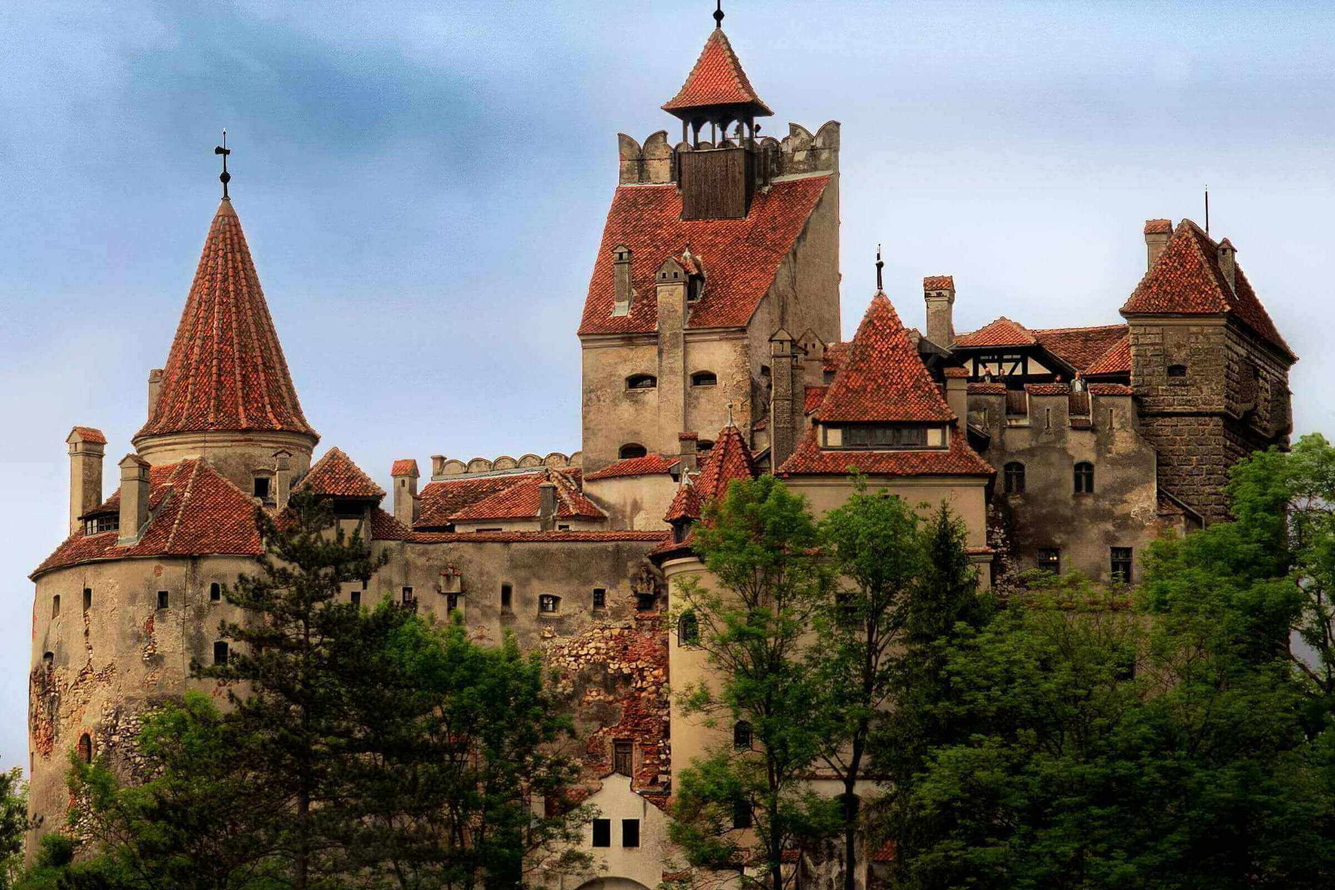
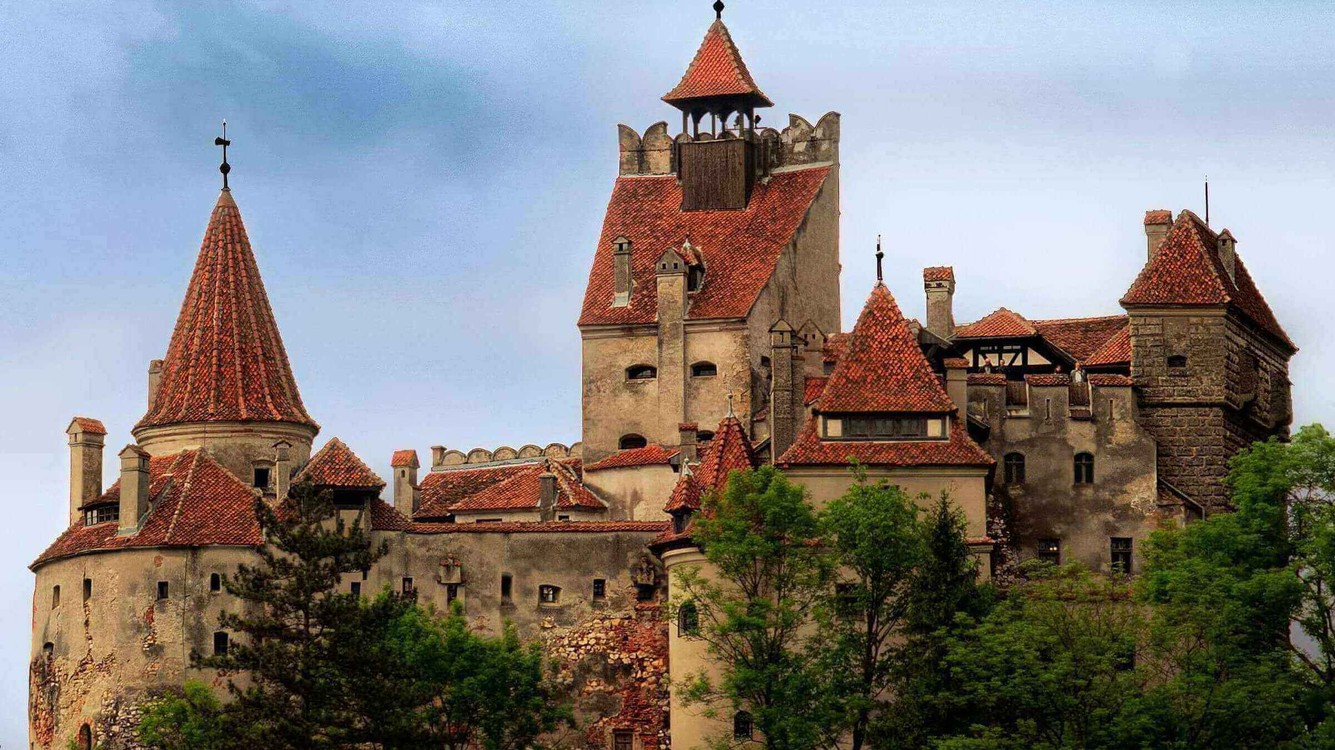
Adjust and compres images

diff --git a/assets/css/style.css b/assets/css/style.css
@@ -9,6 +9,7 @@ body {
     font-family: "Poppins", sans-serif;
     color: #4d4d4d;
     font-size: 1rem;
+    margin-top: 3.65px;
 }
 
 .uppercase {
@@ -16,7 +17,7 @@ body {
 }
 
 .section-site {
-    padding-top: 4.5rem;
+    padding-top: 4.6rem;
 }
 
 .text-center {
